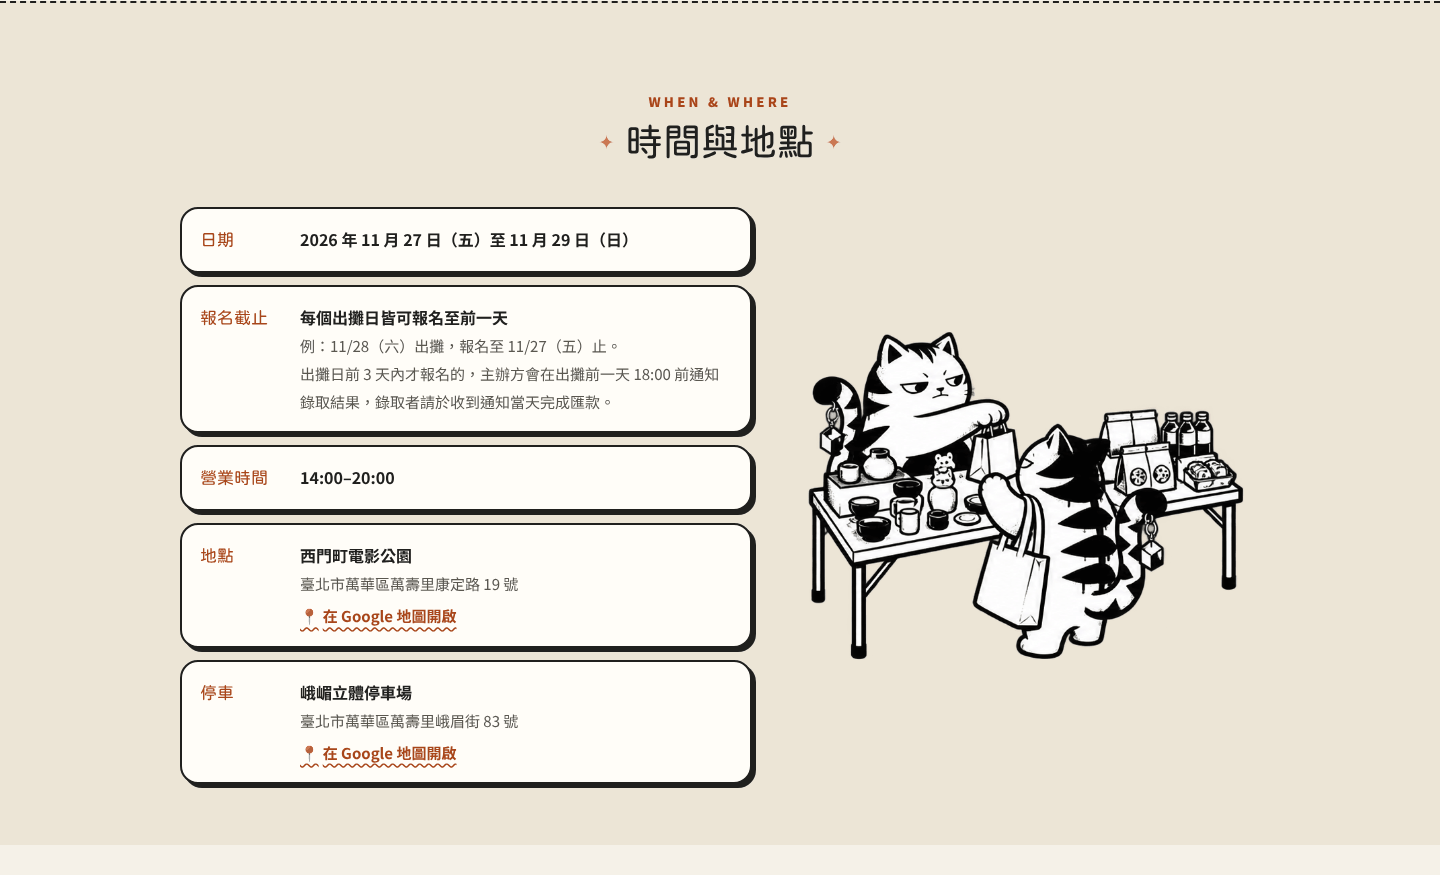
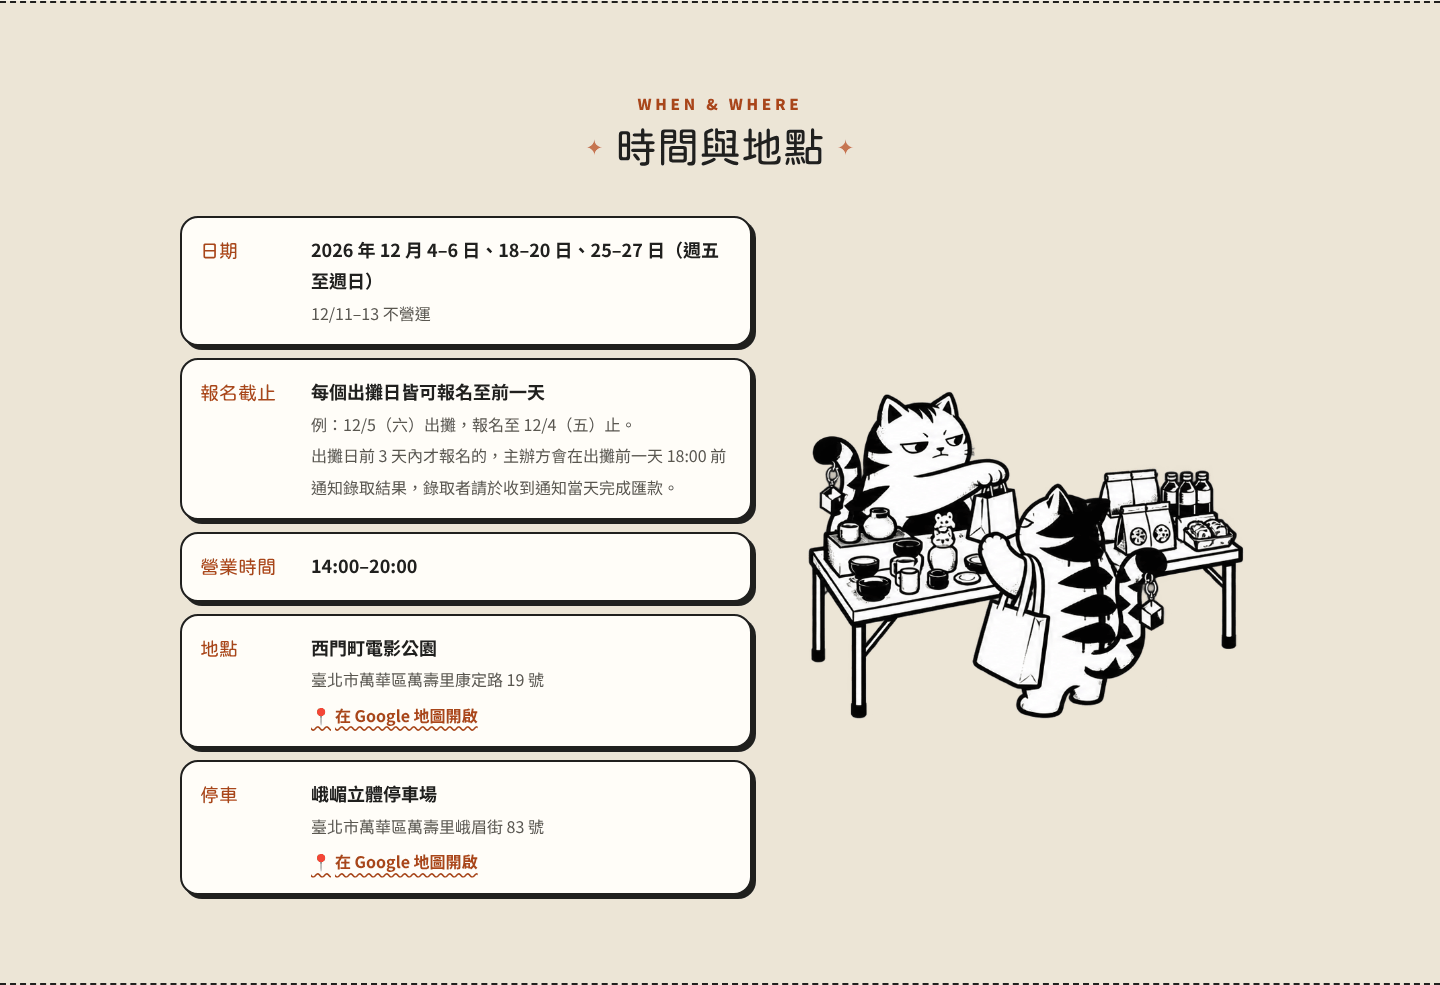
11/27–29 取消，改從 12 月開始
首頁：
- 營業日改 12/4–6、12/18–20、12/25–27（週五至週日），註明 12/11–13 不營運
- 「11 月報名」按鈕（頁首、主視覺、報名區）改「12 月報名」，連結不變
- 費用區拿掉 11 月試營運價，改列單日 NT$1,200、包月 NT$1,000；拿掉「12 月報名即將開放」按鈕
- 報名截止範例改 12/5、12/4；橫幅日期改 12/5–12/6
- title、meta、og、twitter 描述改 12 月日期

/cup/：
- 首場改 12/5（六）通常組、12/6（日）公開組
- 每月賽事加 12 月賽程（G3 12/5–6、12/19–20；大型 G2 12/26–27）
- title、meta、og、twitter 描述與 og-cup.png 改 12 月日期

README 同步更新價格與報名按鈕說明；更新截圖

Claude-Session: https://claude.ai/code/session_012dQHuckgmktwtxDEBvdD1o

diff --git a/index.html b/index.html
@@ -5,8 +5,8 @@
   <meta name="viewport" content="width=device-width, initial-scale=1">
 
   <!-- ✏ 改日期時：title、description、og:description、twitter:description 一起改 -->
-  <title>攤玩市集｜西門町電影公園 11/27–11/29 週末街頭市集・攤商招募中</title>
-  <meta name="description" content="攤玩市集在西門町電影公園，集合青年創作、特色選品、輕食飲品與戰鬥陀螺互動體驗。2026/11/27（五）–11/29（日）14:00–20:00，攤商招募中，立即線上報名！">
+  <title>攤玩市集｜西門町電影公園 12 月週末街頭市集・攤商招募中</title>
+  <meta name="description" content="攤玩市集在西門町電影公園，集合青年創作、特色選品、輕食飲品與戰鬥陀螺互動體驗。2026/12/4–6、12/18–20、12/25–27（週五至週日）14:00–20:00，攤商招募中，立即線上報名！">
   <meta name="theme-color" content="#F5F1E8">
   <link rel="canonical" href="https://tanwanmarket.com/">
 
@@ -15,7 +15,7 @@
   <meta property="og:locale" content="zh_TW">
   <meta property="og:site_name" content="攤玩市集">
   <meta property="og:title" content="攤玩市集｜西門町週末街頭市集・攤商招募中">
-  <meta property="og:description" content="2026/11/27–11/29 西門町電影公園｜青年創作、特色選品、輕食飲品，還有「旋轉吧！西門」戰鬥陀螺。攤商招募中，立即報名！">
+  <meta property="og:description" content="2026/12/4–6、12/18–20、12/25–27 西門町電影公園｜青年創作、特色選品、輕食飲品，還有「旋轉吧！西門」戰鬥陀螺。攤商招募中，立即報名！">
   <meta property="og:url" content="https://tanwanmarket.com/">
   <meta property="og:image" content="https://tanwanmarket.com/assets/og-image.png">
   <meta property="og:image:width" content="1200">
@@ -23,7 +23,7 @@
   <meta property="og:image:alt" content="攤玩市集字標與攤玩貓">
   <meta name="twitter:card" content="summary_large_image">
   <meta name="twitter:title" content="攤玩市集｜西門町週末街頭市集・攤商招募中">
-  <meta name="twitter:description" content="2026/11/27–11/29 西門町電影公園｜攤商招募中，立即報名！">
+  <meta name="twitter:description" content="2026/12/4–6、12/18–20、12/25–27 西門町電影公園｜攤商招募中，立即報名！">
   <meta name="twitter:image" content="https://tanwanmarket.com/assets/og-image.png">
 
   <link rel="icon" type="image/png" href="assets/favicon.png">
@@ -53,7 +53,7 @@
           <li class="nav-cup"><a href="cup/">G3 公開賽</a></li>
         </ul>
       </nav>
-      <a class="btn btn-sm" href="https://forms.gle/8Fhi1L7nHp1qh5zT6" target="_blank" rel="noopener">11 月報名<span class="sr-only">（另開新分頁）</span></a>
+      <a class="btn btn-sm" href="https://forms.gle/8Fhi1L7nHp1qh5zT6" target="_blank" rel="noopener">12 月報名<span class="sr-only">（另開新分頁）</span></a>
     </div>
   </header>
 
@@ -72,13 +72,13 @@
 
           <!-- ✏ 日期地點（主視覺）：改日期時記得這裡也要改 -->
           <ul class="hero-facts">
-            <li><span class="fact-icon" aria-hidden="true">📅</span>2026/11/27（五）– 11/29（日）</li>
+            <li><span class="fact-icon" aria-hidden="true">📅</span><span><span class="nobr">2026/12/4–6、</span><span class="nobr">12/18–20、</span><span class="nobr">12/25–27（五–日）</span></span></li>
             <li><span class="fact-icon" aria-hidden="true">⏰</span>14:00–20:00</li>
             <li><span class="fact-icon" aria-hidden="true">📍</span>西門町電影公園</li>
           </ul>
 
           <div class="hero-actions">
-            <a class="btn btn-lg" href="https://forms.gle/8Fhi1L7nHp1qh5zT6" target="_blank" rel="noopener">11 月報名<span class="sr-only">（另開新分頁）</span></a>
+            <a class="btn btn-lg" href="https://forms.gle/8Fhi1L7nHp1qh5zT6" target="_blank" rel="noopener">12 月報名<span class="sr-only">（另開新分頁）</span></a>
             <a class="btn btn-ghost btn-lg" href="#fees">看攤位費用</a>
           </div>
         </div>
@@ -104,7 +104,7 @@
               </picture>
             </p>
             <div class="cup-promo-info">
-              <p class="cup-promo-meta"><span>戰鬥陀螺 G3、G2 公開賽</span><span class="cup-promo-date"><span class="nobr">11/28（六）</span><span class="nobr">–11/29（日）</span></span></p>
+              <p class="cup-promo-meta"><span>戰鬥陀螺 G3、G2 公開賽</span><span class="cup-promo-date"><span class="nobr">12/5（六）</span><span class="nobr">–12/6（日）</span></span></p>
               <span class="cup-promo-cta">看賽事資訊 →</span>
               <p class="cup-promo-monthly"><span class="nobr">每個週末都有 G3 公開賽，</span><span class="nobr">每月一週大型 G2 賽事</span></p>
               <p class="cup-promo-co">協辦：麗嬰國際、Funbox Toys</p>
@@ -171,11 +171,11 @@
           <dl class="info-list">
             <div class="info-item">
               <dt>日期</dt>
-              <dd>2026 年 11 月 27 日（五）至 11 月 29 日（日）</dd>
+              <dd>2026 年 12 月 4–6 日、18–20 日、25–27 日（週五至週日）<br><span class="muted">12/11–13 不營運</span></dd>
             </div>
             <div class="info-item">
               <dt>報名截止</dt>
-              <dd>每個出攤日皆可報名至前一天<br><span class="muted">例：11/28（六）出攤，報名至 11/27（五）止。<br>出攤日前 3 天內才報名的，主辦方會在出攤前一天 18:00 前通知錄取結果，錄取者請於收到通知當天完成匯款。</span></dd>
+              <dd>每個出攤日皆可報名至前一天<br><span class="muted">例：12/5（六）出攤，報名至 12/4（五）止。<br>出攤日前 3 天內才報名的，主辦方會在出攤前一天 18:00 前通知錄取結果，錄取者請於收到通知當天完成匯款。</span></dd>
             </div>
             <div class="info-item">
               <dt>營業時間</dt>
@@ -272,7 +272,7 @@
     </section>
 
     <!-- ===================== 5. 攤位費用與規則 ===================== -->
-    <!-- ✏ 攤位費用：改這一段（11 月試營運價＋12 月起新價格；11 月檔期結束後可把試營運價改成 12 月價格） -->
+    <!-- ✏ 攤位費用：改這一段（單日／包月價格） -->
     <section class="section section-alt" id="fees" aria-labelledby="fees-title">
       <div class="container">
         <header class="section-head">
@@ -282,21 +282,12 @@
 
         <div class="fee-layout">
           <div class="price-card">
-            <p class="sticker sticker-orange">11 月試營運優惠</p>
-            <p class="price">
-              <span class="price-unit">每攤每日</span>
-              <span class="price-amount">NT$1,000</span>
-            </p>
+            <p class="sticker sticker-orange">12 月攤位費用</p>
+            <ul class="price-next-list price-plans">
+              <li><span class="price-next-plan">單日</span><span class="price-next-amount">NT$1,200</span><span class="price-next-unit">每攤每日</span></li>
+              <li><span class="price-next-plan">包月</span><span class="price-next-amount">NT$1,000</span><span class="price-next-unit">每攤每日</span><span class="price-next-cond">勾選當月全部營業日</span></li>
+            </ul>
             <p class="price-note">依錄取出攤天數計算</p>
-            <div class="price-next">
-              <h3>12 月起新價格</h3>
-              <ul class="price-next-list">
-                <li><span class="price-next-plan">單日</span><span class="price-next-amount">NT$1,200</span><span class="price-next-unit">每攤每日</span></li>
-                <li><span class="price-next-plan">包月</span><span class="price-next-amount">NT$1,000</span><span class="price-next-unit">每攤每日</span><span class="price-next-cond">勾選當月全部營業日</span></li>
-              </ul>
-              <!-- ✏ 12 月報名按鈕：12 月報名表單建立後，把這個 <button> 換成連到新表單的連結 -->
-              <button class="btn btn-disabled price-next-btn" type="button" disabled>12 月報名即將開放</button>
-            </div>
             <div class="price-included">
               <h3>每攤附</h3>
               <ul class="check-list">
@@ -412,9 +403,7 @@
               <p>填寫線上報名表即可報名。報名後 3 日內沒收到錄取通知，就是未錄取，不另外通知，請一併留意垃圾郵件匣。</p>
               <p>出攤日前 3 天內才報名的，主辦方會在出攤前一天 18:00 前通知錄取結果，錄取者請於收到通知當天完成匯款。</p>
               <div class="signup-actions">
-                <a class="btn btn-lg" href="https://forms.gle/8Fhi1L7nHp1qh5zT6" target="_blank" rel="noopener">11 月報名<span class="sr-only">（另開新分頁）</span></a>
-                <!-- ✏ 12 月報名按鈕：12 月報名表單建立後，把這個 <button> 換成連到新表單的連結（寫法同上一行 11 月報名，換掉網址和文字） -->
-                <button class="btn btn-lg btn-disabled" type="button" disabled>12 月報名即將開放</button>
+                <a class="btn btn-lg" href="https://forms.gle/8Fhi1L7nHp1qh5zT6" target="_blank" rel="noopener">12 月報名<span class="sr-only">（另開新分頁）</span></a>
               </div>
               <p class="signup-privacy">報名表第 1 頁附有個人資料蒐集告知事項，拍照宣傳與行銷訊息皆需另外勾選同意。</p>
             </div>

diff --git a/cup/index.html b/cup/index.html
@@ -4,8 +4,8 @@
   <meta charset="utf-8">
   <meta name="viewport" content="width=device-width, initial-scale=1">
 
-  <title>旋轉吧！西門｜西門盃 G3 公開賽 戰鬥陀螺 11/28（六）–11/29（日）｜攤玩市集</title>
-  <meta name="description" content="旋轉吧！西門｜西門盃 G3 公開賽（G3 官方認證賽事），2026/11/28（六）–11/29（日）在西門町電影公園舉行。週六通常組（6–12 歲）、週日公開組（12 歲以上），64 人，報名費每人 NT$200，觀賽免費。報名即將開放。每個週末舉辦 G3、每月一個週末舉辦 G2 官方認證賽事。">
+  <title>旋轉吧！西門｜西門盃 G3 公開賽 戰鬥陀螺 12/5（六）–12/6（日）｜攤玩市集</title>
+  <meta name="description" content="旋轉吧！西門｜西門盃 G3 公開賽（G3 官方認證賽事），2026/12/5（六）–12/6（日）在西門町電影公園舉行。週六通常組（6–12 歲）、週日公開組（12 歲以上），64 人，報名費每人 NT$200，觀賽免費。報名即將開放。每個週末舉辦 G3、每月一個週末舉辦 G2 官方認證賽事。">
   <meta name="theme-color" content="#F5F1E8">
   <link rel="canonical" href="https://tanwanmarket.com/cup/">
 
@@ -14,7 +14,7 @@
   <meta property="og:locale" content="zh_TW">
   <meta property="og:site_name" content="攤玩市集">
   <meta property="og:title" content="旋轉吧！西門｜西門盃 G3 公開賽 戰鬥陀螺">
-  <meta property="og:description" content="2026/11/28（六）–11/29（日）西門町電影公園｜G3 官方認證賽事，週六通常組、週日公開組各 64 人，觀賽免費。報名即將開放。">
+  <meta property="og:description" content="2026/12/5（六）–12/6（日）西門町電影公園｜G3 官方認證賽事，週六通常組、週日公開組各 64 人，觀賽免費。報名即將開放。">
   <meta property="og:url" content="https://tanwanmarket.com/cup/">
   <meta property="og:image" content="https://tanwanmarket.com/assets/cup/og-cup.png">
   <meta property="og:image:width" content="1200">
@@ -22,7 +22,7 @@
   <meta property="og:image:alt" content="旋轉吧！西門字標、西門盃 G3 公開賽字卡與發射戰鬥陀螺的攤玩貓">
   <meta name="twitter:card" content="summary_large_image">
   <meta name="twitter:title" content="旋轉吧！西門｜西門盃 G3 公開賽 戰鬥陀螺">
-  <meta name="twitter:description" content="2026/11/28（六）–11/29（日）西門町電影公園｜G3 官方認證賽事，報名即將開放。">
+  <meta name="twitter:description" content="2026/12/5（六）–12/6（日）西門町電影公園｜G3 官方認證賽事，報名即將開放。">
   <meta name="twitter:image" content="https://tanwanmarket.com/assets/cup/og-cup.png">
 
   <link rel="icon" type="image/png" href="../assets/favicon.png">
@@ -80,7 +80,7 @@
           <p class="cup-sub">戰鬥陀螺 G3、G2 公開賽</p>
 
           <ul class="hero-facts">
-            <li><span class="fact-icon" aria-hidden="true">📅</span>2026/11/28（六）–11/29（日）</li>
+            <li><span class="fact-icon" aria-hidden="true">📅</span>2026/12/5（六）–12/6（日）</li>
             <li><span class="fact-icon" aria-hidden="true">⏰</span>14:10 開賽</li>
             <li><span class="fact-icon" aria-hidden="true">📍</span>西門町電影公園</li>
           </ul>
@@ -108,8 +108,8 @@
         <div class="cup-when">
           <div class="schedule cup-schedule">
             <ul class="cup-days">
-              <li><span class="cup-day-date">11/28（六）</span><span class="cup-day-group">通常組<small>6–12 歲</small></span></li>
-              <li><span class="cup-day-date">11/29（日）</span><span class="cup-day-group">公開組<small>12 歲以上</small></span></li>
+              <li><span class="cup-day-date">12/5（六）</span><span class="cup-day-group">通常組<small>6–12 歲</small></span></li>
+              <li><span class="cup-day-date">12/6（日）</span><span class="cup-day-group">公開組<small>12 歲以上</small></span></li>
             </ul>
             <h3>賽程（兩天相同）</h3>
             <ol class="timeline cup-timeline">
@@ -269,6 +269,13 @@
               <li><picture class="cup-monthly-mark"><source srcset="../assets/cup/ximen-cup-g3-white.svg" type="image/svg+xml"><img src="../assets/cup/ximen-cup-g3-white.webp" alt="西門盃 G3 公開賽" width="1200" height="400" loading="lazy"></picture><span class="cup-monthly-count">每個週末 <strong>2</strong> 場</span><span class="cup-monthly-detail">週六通常組、週日公開組，<span class="nobr">各 64 人，NT$200</span></span></li>
               <li><picture class="cup-monthly-mark"><source srcset="../assets/cup/ximen-cup-g2-white.svg" type="image/svg+xml"><img src="../assets/cup/ximen-cup-g2-white.webp" alt="西門盃 G2 地區賽" width="1200" height="400" loading="lazy"></picture><span class="cup-monthly-count">每月<strong>一週</strong></span><span class="cup-monthly-detail">大型 G2 賽事<span class="nobr">（週六通常組、週日公開組）</span><br><span class="nobr">各 128 人，NT$300</span></span><span class="cup-monthly-tip">請隨時留意比賽資訊</span></li>
             </ul>
+            <div class="cup-month-plan">
+              <h3>12 月賽程</h3>
+              <ul>
+                <li><span class="cup-month-type">G3 公開賽</span><span><span class="nobr">12/5（六）–12/6（日）、</span><span class="nobr">12/19（六）–12/20（日）</span></span></li>
+                <li><span class="cup-month-type">大型 G2 賽事</span><span class="nobr">12/26（六）–12/27（日）</span></li>
+              </ul>
+            </div>
             <p class="cup-monthly-note">通常組<span class="nobr">限 6–12 歲</span>、公開組<span class="nobr">限 12 歲以上</span>（G3、G2 相同）。大型 G2 賽事那一週不辦 G3。以上皆為官方認證賽事。每月賽程確認後，我們會一次公布並開放當月所有場次報名，可以一次報名多場，方便玩家提前安排。如遇場地活動需要調整，將提前公告延期日期。</p>
           </article>
           <article class="cup-card cup-practice">

diff --git a/cup/cup.css b/cup/cup.css
@@ -233,6 +233,18 @@
   color: var(--orange);
   font-variant-numeric: tabular-nums;
 }
+.cup-month-plan {
+  align-self: stretch;
+  margin: 0 0 16px;
+  padding: 14px 16px;
+  background: var(--paper);
+  border: 2px dashed var(--ink);
+  border-radius: 14px;
+}
+.cup-month-plan h3 { margin: 0 0 6px; font-size: 1.125rem; }
+.cup-month-plan ul { list-style: none; margin: 0; padding: 0; display: grid; gap: 6px; }
+.cup-month-plan li { display: flex; flex-wrap: wrap; gap: 2px 10px; align-items: baseline; font-weight: 700; }
+.cup-month-type { color: var(--orange-ink); font-weight: 900; }
 .cup-monthly-main .cup-monthly-note { font-size: 1rem; color: var(--muted); }
 .cup-practice { background: var(--paper-deep); border-style: dashed; }
 .cup-practice p { margin: 0; }

diff --git a/styles.css b/styles.css
@@ -585,6 +585,11 @@ a { color: inherit; }
   font-weight: 700;
 }
 .price-next-btn { margin-top: 14px; }
+.price-plans { margin-top: 14px; grid-template-columns: repeat(2, minmax(0, 1fr)); }
+.price-plans li { padding: 14px 8px; }
+.price-plans .price-next-amount { font-size: clamp(1.5rem, 6.8vw, 2.25rem); }
+.price-plans + .price-note { margin-top: 12px; }
+.price-plans .price-next-cond { font-size: .8125rem; }
 .price-included {
   padding-top: 18px;
   border-top: 2px dashed rgba(245, 241, 232, .5);

diff --git a/README.md b/README.md
@@ -49,18 +49,11 @@ tanwan-market/
 | 主視覺上的日期／時間／地點小標籤 | `✏ 日期地點（主視覺）` |
 | 時間與地點區塊（日期、報名截止、營業時間、地址、停車） | `✏ 日期、營業時間、地點` |
 | 報名區的「報名截止」標籤 | `✏ 報名截止日` |
-| 12 月報名按鈕（價格卡、報名區各一個） | `✏ 12 月報名按鈕` |
 | 攤位費用、設備、加租、用電、自備、報到撤場 | `✏ 攤位費用` |
 
-**目前價格**：價格卡上方是 `11 月試營運優惠`（每攤每日 NT$1,000），下方「12 月起新價格」列出單日每攤每日 NT$1,200、包月每攤每日 NT$1,000（包月需勾選當月全部營業日）。
+**目前價格**：價格卡標題是「12 月攤位費用」，列出單日每攤每日 NT$1,200、包月每攤每日 NT$1,000（包月需勾選當月全部營業日）。
 
-**11 月、12 月報名入口分開**：11 月的「11 月報名」按鈕（頁首、主視覺、報名區）連到 11 月的報名表。12 月的報名表還沒建立，所以價格卡和報名區各放一個不能點的「12 月報名即將開放」按鈕。**12 月報名表單建立後**，在 `index.html` 搜尋 `✏ 12 月報名按鈕`，把兩個 `<button … disabled>12 月報名即將開放</button>` 換成連結，例如：
-
-```html
-<a class="btn btn-lg" href="12 月表單網址" target="_blank" rel="noopener">12 月報名<span class="sr-only">（另開新分頁）</span></a>
-```
-
-（價格卡那一顆用 `class="btn price-next-btn"`。）
+**報名按鈕**：頁首、主視覺、報名區各有一個「12 月報名」按鈕，都連到同一份報名表。之後換月份時，搜尋 `月報名` 一起改文字，搜尋 `forms.gle` 換表單網址。
 
 > `banner.png` 和 `og-image.png` 圖上都沒有日期，改日期時不用換圖。
 
@@ -73,7 +66,7 @@ tanwan-market/
 3. 若新圖的長寬比例和舊圖不同，請到 `index.html` 找到對應的 `<img>`，把 `width`、`height` 改成新圖的像素尺寸（避免載入時版面跳動）。
 4. 上傳前請先壓縮（例如 [TinyPNG](https://tinypng.com/)），手機載入會快很多。目前 `assets/` 的圖都已用 pngquant 壓縮過（尺寸不變）。
 
-11 月報名表連結 `https://forms.gle/8Fhi1L7nHp1qh5zT6` 出現在 3 個「11 月報名」按鈕上（頁首、主視覺、報名區），換表單時在 `index.html` 搜尋 `forms.gle` 全部替換。
+報名表連結 `https://forms.gle/8Fhi1L7nHp1qh5zT6` 出現在 3 個「12 月報名」按鈕上（頁首、主視覺、報名區），換表單時在 `index.html` 搜尋 `forms.gle` 全部替換。
 
 ## 如何開啟 GitHub Pages
 
